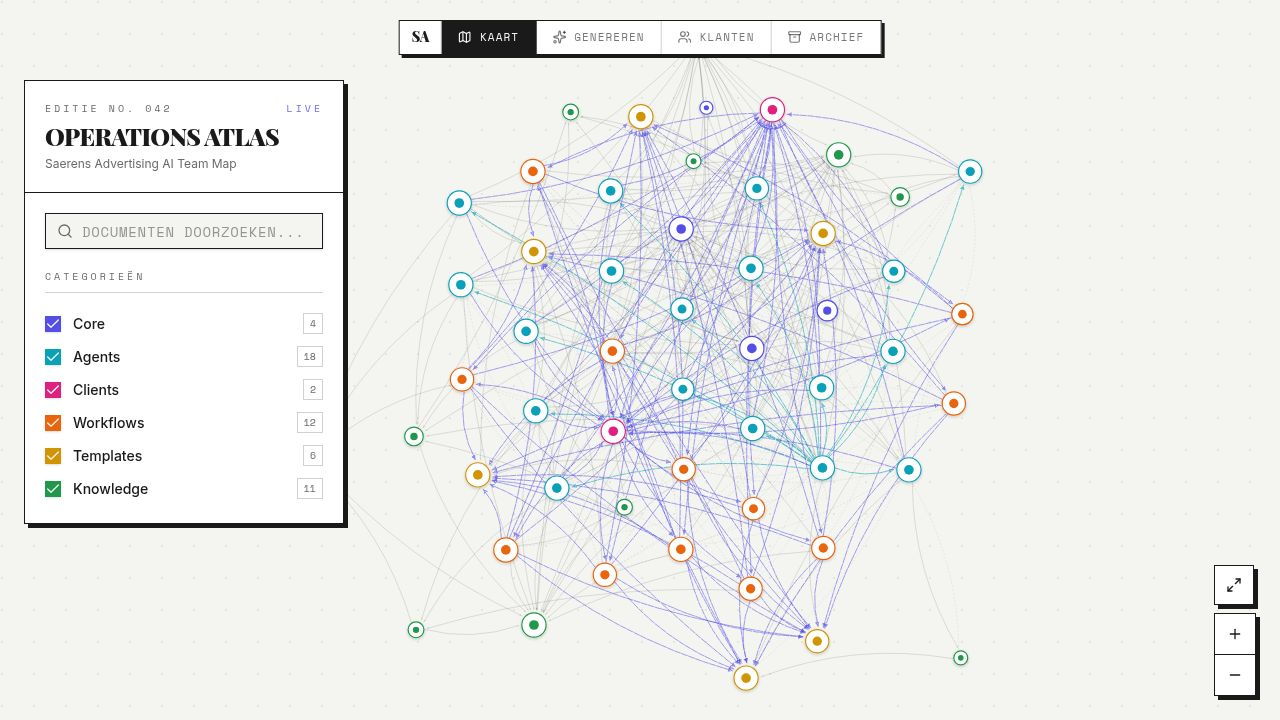
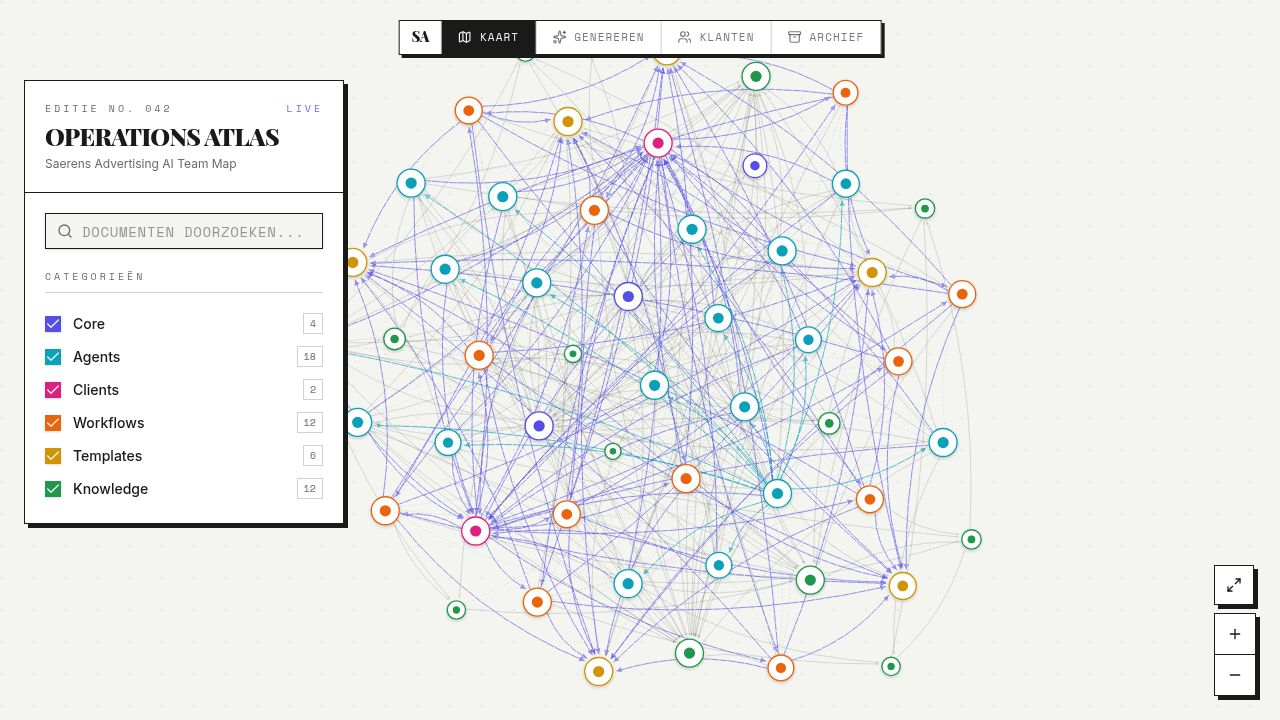
Implement a premium motion layer for the application
Integrates `lenis` for smooth scrolling on editorial pages, framer-motion for route transitions and reveals, and ensures all motion respects the `prefers-reduced-motion` setting.

Replit-Commit-Author: Agent
Replit-Commit-Session-Id: 2fa27040-5862-4278-a227-318cf1cdff0b
Replit-Commit-Checkpoint-Type: full_checkpoint
Replit-Commit-Event-Id: 6742b54f-a1c2-499c-bebe-93934b150d4d
Replit-Commit-Screenshot-Url: https://storage.googleapis.com/screenshot-production-us-central1/e9be4314-e12b-4007-a229-08dc90cf6f89/2fa27040-5862-4278-a227-318cf1cdff0b/9QkM26k
Replit-Helium-Checkpoint-Created: true

diff --git a/artifacts/system-map/src/components/SmoothScroll.tsx b/artifacts/system-map/src/components/SmoothScroll.tsx
@@ -1,0 +1,53 @@
+import { useEffect, useRef } from "react";
+import type { ReactNode } from "react";
+import { useLocation } from "wouter";
+import Lenis from "lenis";
+
+// Premium smooth-scroll layer for the editorial pages. Deliberately NOT active
+// on the Kaart route ("/") — that page is a full-screen, non-scrolling graph
+// with its own wheel-driven interactions, so smooth scroll adds nothing there
+// and could fight the canvas. Fully disabled under reduced-motion.
+export default function SmoothScroll({ children }: { children: ReactNode }) {
+  const lenisRef = useRef<Lenis | null>(null);
+  const [location] = useLocation();
+  const isHome = location === "/";
+
+  useEffect(() => {
+    if (isHome) return;
+
+    const mq = window.matchMedia("(prefers-reduced-motion: reduce)");
+    if (mq.matches) return;
+
+    const lenis = new Lenis({
+      duration: 1.1,
+      easing: (t) => Math.min(1, 1.001 - Math.pow(2, -10 * t)),
+      smoothWheel: true,
+    });
+    lenisRef.current = lenis;
+
+    let raf = 0;
+    const loop = (time: number) => {
+      lenis.raf(time);
+      raf = requestAnimationFrame(loop);
+    };
+    raf = requestAnimationFrame(loop);
+
+    return () => {
+      cancelAnimationFrame(raf);
+      lenis.destroy();
+      lenisRef.current = null;
+    };
+  }, [isHome]);
+
+  // Each route should open at its masthead, not wherever the previous page was
+  // scrolled to. Reset instantly so it never looks like an animated jump.
+  useEffect(() => {
+    if (lenisRef.current) {
+      lenisRef.current.scrollTo(0, { immediate: true });
+    } else {
+      window.scrollTo(0, 0);
+    }
+  }, [location]);
+
+  return <>{children}</>;
+}

diff --git a/artifacts/system-map/src/components/Reveal.tsx b/artifacts/system-map/src/components/Reveal.tsx
@@ -1,0 +1,34 @@
+import { motion, useReducedMotion } from "framer-motion";
+import type { ReactNode } from "react";
+import { revealTransition, revealVariants } from "@/lib/motion";
+
+interface RevealProps {
+  children: ReactNode;
+  className?: string;
+  // Small per-item delay to stagger groups gently.
+  delay?: number;
+}
+
+// A restrained scroll reveal: subtle fade + short rise, triggered once as the
+// element enters the viewport. Under reduced-motion it renders the final state
+// immediately so content is never gated behind motion.
+export default function Reveal({ children, className, delay = 0 }: RevealProps) {
+  const reduce = useReducedMotion();
+
+  if (reduce) {
+    return <div className={className}>{children}</div>;
+  }
+
+  return (
+    <motion.div
+      className={className}
+      variants={revealVariants}
+      initial="hidden"
+      whileInView="visible"
+      viewport={{ once: true, margin: "0px 0px -10% 0px" }}
+      transition={{ ...revealTransition, delay }}
+    >
+      {children}
+    </motion.div>
+  );
+}

diff --git a/artifacts/system-map/src/App.tsx b/artifacts/system-map/src/App.tsx
@@ -1,5 +1,6 @@
-import { Switch, Route, Router as WouterRouter } from "wouter";
+import { Switch, Route, Router as WouterRouter, useLocation } from "wouter";
 import { QueryClient, QueryClientProvider } from "@tanstack/react-query";
+import { AnimatePresence, motion, useReducedMotion } from "framer-motion";
 import { Toaster } from "@/components/ui/toaster";
 import { TooltipProvider } from "@/components/ui/tooltip";
 import NotFound from "@/pages/not-found";
@@ -8,6 +9,8 @@ import Generate from "@/pages/Generate";
 import Clients from "@/pages/Clients";
 import History from "@/pages/History";
 import TabNav from "@/components/TabNav";
+import SmoothScroll from "@/components/SmoothScroll";
+import { pageTransition } from "@/lib/motion";
 
 const queryClient = new QueryClient();
 
@@ -23,13 +26,36 @@ function Router() {
   );
 }
 
+// Quick, opacity-only transition between routes. Keyed on location so each page
+// fades cleanly; reduced-motion users get an instant swap with no animation.
+function AnimatedRoutes() {
+  const [location] = useLocation();
+  const reduce = useReducedMotion();
+
+  return (
+    <AnimatePresence mode="wait" initial={false}>
+      <motion.div
+        key={location}
+        initial={reduce ? false : { opacity: 0 }}
+        animate={{ opacity: 1 }}
+        exit={reduce ? { opacity: 1 } : { opacity: 0 }}
+        transition={pageTransition}
+      >
+        <Router />
+      </motion.div>
+    </AnimatePresence>
+  );
+}
+
 function App() {
   return (
     <QueryClientProvider client={queryClient}>
       <TooltipProvider>
         <WouterRouter base={import.meta.env.BASE_URL.replace(/\/$/, "")}>
-          <TabNav />
-          <Router />
+          <SmoothScroll>
+            <TabNav />
+            <AnimatedRoutes />
+          </SmoothScroll>
         </WouterRouter>
         <Toaster />
       </TooltipProvider>

diff --git a/artifacts/system-map/src/lib/motion.ts b/artifacts/system-map/src/lib/motion.ts
@@ -1,0 +1,23 @@
+import type { Transition, Variants } from "framer-motion";
+
+// Shared editorial easing — a calm, slightly weighted ease-out that matches the
+// newsroom feel. Reused across reveals and route transitions for consistency.
+export const easeEditorial = [0.22, 1, 0.36, 1] as const;
+
+export const revealTransition: Transition = {
+  duration: 0.6,
+  ease: easeEditorial,
+};
+
+// Subtle fade + short rise — content arrives, it does not slide in.
+export const revealVariants: Variants = {
+  hidden: { opacity: 0, y: 16 },
+  visible: { opacity: 1, y: 0 },
+};
+
+// Route transitions stay fast and opacity-only so the content the user came for
+// is never delayed and layout never shifts.
+export const pageTransition: Transition = {
+  duration: 0.28,
+  ease: easeEditorial,
+};

diff --git a/artifacts/system-map/src/components/TabNav.tsx b/artifacts/system-map/src/components/TabNav.tsx
@@ -1,4 +1,5 @@
 import { Link, useLocation } from "wouter";
+import { motion, useReducedMotion } from "framer-motion";
 import { Map, Sparkles, Users, Archive } from "lucide-react";
 
 const tabs = [
@@ -10,6 +11,7 @@ const tabs = [
 
 export default function TabNav() {
   const [location] = useLocation();
+  const reduce = useReducedMotion();
 
   return (
     <div className="fixed top-5 left-1/2 -translate-x-1/2 z-50 pointer-events-auto">
@@ -26,15 +28,27 @@ export default function TabNav() {
             <Link
               key={href}
               href={href}
-              className={`flex items-center gap-2 px-4 py-2 font-['Space_Mono'] text-[11px] uppercase tracking-widest transition-colors border-r border-foreground/20 last:border-r-0 ${
+              className={`relative flex items-center gap-2 px-4 py-2 font-['Space_Mono'] text-[11px] uppercase tracking-widest transition-colors border-r border-foreground/20 last:border-r-0 ${
                 active
-                  ? "bg-foreground text-background"
+                  ? "text-background"
                   : "text-foreground/60 hover:text-foreground hover:bg-foreground/5"
               }`}
               data-testid={`tab-${label.toLowerCase()}`}
             >
-              <Icon className="w-3.5 h-3.5" />
-              {label}
+              {active &&
+                (reduce ? (
+                  <span className="absolute inset-0 bg-foreground" />
+                ) : (
+                  <motion.span
+                    layoutId="tabnav-active"
+                    className="absolute inset-0 bg-foreground"
+                    transition={{ type: "spring", stiffness: 420, damping: 36 }}
+                  />
+                ))}
+              <span className="relative z-10 flex items-center gap-2">
+                <Icon className="w-3.5 h-3.5" />
+                {label}
+              </span>
             </Link>
           );
         })}

diff --git a/artifacts/system-map/src/index.css b/artifacts/system-map/src/index.css
@@ -175,3 +175,19 @@
     animation: none;
   }
 }
+
+/* Lenis smooth scroll — recommended baseline so the rAF-driven scroll position
+   stays authoritative. Lenis is only initialised on the editorial routes. */
+html.lenis,
+html.lenis body {
+  height: auto;
+}
+.lenis.lenis-smooth {
+  scroll-behavior: auto !important;
+}
+.lenis.lenis-smooth [data-lenis-prevent] {
+  overscroll-behavior: contain;
+}
+.lenis.lenis-stopped {
+  overflow: hidden;
+}

diff --git a/artifacts/system-map/src/pages/Clients.tsx b/artifacts/system-map/src/pages/Clients.tsx
@@ -13,6 +13,7 @@ import {
 import { Loader2, Plus, Save, Trash2, X } from "lucide-react";
 import { Input } from "@/components/ui/input";
 import { Textarea } from "@/components/ui/textarea";
+import Reveal from "@/components/Reveal";
 
 type FieldKey = Exclude<keyof ClientInput, "name">;
 
@@ -313,6 +314,7 @@ export default function Clients() {
     <div className="min-h-[100dvh] w-full bg-background text-foreground font-['Inter']">
       <div className="mx-auto max-w-7xl px-6 pt-20 pb-16">
         {/* Masthead */}
+        <Reveal>
         <header className="border-b-2 border-foreground pb-5 mb-10">
           <div className="flex items-end justify-between gap-4">
             <div>
@@ -337,6 +339,7 @@ export default function Clients() {
             generatie en de Kaart.
           </p>
         </header>
+        </Reveal>
 
         <div className="grid grid-cols-1 lg:grid-cols-[24rem_1fr] gap-10">
           {/* Register / index */}

diff --git a/artifacts/system-map/src/pages/History.tsx b/artifacts/system-map/src/pages/History.tsx
@@ -28,6 +28,7 @@ import {
   ThumbsDown,
   Lightbulb,
 } from "lucide-react";
+import Reveal from "@/components/Reveal";
 
 function formatDate(iso: string): string {
   const d = new Date(iso);
@@ -210,6 +211,7 @@ export default function History() {
     <div className="min-h-[100dvh] w-full bg-background text-foreground font-['Inter']">
       <div className="mx-auto max-w-7xl px-6 pt-20 pb-16">
         {/* Masthead */}
+        <Reveal>
         <header className="border-b-2 border-foreground pb-5 mb-10">
           <div className="flex items-end justify-between gap-4">
             <div>
@@ -235,6 +237,7 @@ export default function History() {
             verversing.
           </p>
         </header>
+        </Reveal>
 
         <div className="grid grid-cols-1 lg:grid-cols-[26rem_1fr] gap-10">
           {/* Index */}

diff --git a/knowledge/premium-web-motion.md b/knowledge/premium-web-motion.md
@@ -1,0 +1,49 @@
+# Premium Web Motion & Interaction Standards
+
+Baseline standards for motion and interaction on the sites Saerens builds. The goal is a site that feels considered and premium without ever getting in the way of the message or the conversion. Motion is a finishing layer, not the product. Agents apply these unless a client's brand or context gives a documented reason to deviate.
+
+## Principles
+
+- **Restraint over spectacle.** A premium feel comes from a few precise, consistent movements — not from animating everything. If a motion does not help the visitor understand, focus, or act, remove it.
+- **Motion has a purpose.** Every animation should do a job: guide attention, show a relationship, confirm an action, or smooth a transition. Decoration that distracts from the primary call to action is a defect.
+- **Performance is non-negotiable.** Motion must never make the page feel slow. Conversion and Core Web Vitals come first (coordinate with `knowledge/landing-page-standards.md` and `knowledge/seo-standards.md`).
+- **Accessibility is mandatory.** Respect the visitor. Honour reduced-motion preferences and never rely on motion alone to convey meaning.
+- **Consistency.** Reuse the same durations, easing, and patterns across the whole site so it feels like one designed system.
+
+## Smooth scroll
+
+- Use a smooth-scroll layer (for example, Lenis) only when it adds a calm, premium feel — typically on long editorial or marketing pages. It is optional, not a default for every page.
+- Smooth scroll must never trap or fight native scrolling: nested scroll areas, modals, and embedded content keep their own scrolling. Keyboard, anchor links, and focus navigation must continue to work.
+- Disable smooth scroll entirely when the visitor prefers reduced motion.
+
+## Scroll-triggered reveals
+
+- Reveal content as it enters the viewport with subtle fade and short translate (a few pixels), not large slides or zooms.
+- Trigger once; do not re-animate on every scroll pass. Stagger groups gently rather than animating items individually.
+- Content must be present and readable without JavaScript-driven motion — reveals enhance, they never gate the content. Under reduced motion, show everything immediately.
+
+## Micro-interactions
+
+- Buttons, links, cards, and form fields get small, fast feedback on hover, focus, and press (subtle lift, color, or underline). Keep transitions short (roughly 150-250ms).
+- Focus states must remain clearly visible for keyboard users — never remove focus outlines for the sake of aesthetics.
+- Loading and state changes should feel intentional (skeletons or fades) rather than abrupt jumps.
+
+## Page & section transitions
+
+- Keep route and section transitions quick and simple (short fades or small moves). Avoid long, blocking transitions that delay the content the visitor came for.
+- Never animate layout in a way that causes content to jump (protect Cumulative Layout Shift). Animate transform and opacity, not properties that trigger layout.
+
+## Performance budget
+
+- Animate only `transform` and `opacity` for movement; avoid animating width, height, top, left, or box-shadow in hot paths.
+- Target 60fps; keep concurrent animations few and short. Prefer CSS transitions for simple hover/focus and a motion library for orchestrated sequences.
+- Do not block first paint or interactivity on motion code or heavy animation libraries — keep the critical path lean.
+
+## Reduced motion (required)
+
+- Always honour `prefers-reduced-motion: reduce`. When set: disable smooth scroll, skip reveal animations (show final state immediately), and reduce or remove non-essential micro-interactions.
+- Provide an equivalent, fully usable experience with motion off. Motion is never required to access content or complete a conversion.
+
+## Apply with
+
+Use alongside `knowledge/landing-page-standards.md` (structure and conversion), `knowledge/seo-standards.md` (speed and Core Web Vitals), and any client brand guidelines. When in doubt, choose the calmer option.

diff --git a/.agents/memory/app-motion-layer.md b/.agents/memory/app-motion-layer.md
@@ -1,0 +1,19 @@
+---
+name: System Map app motion layer
+description: Where premium motion lives in the app and the one route that must be excluded from smooth scroll.
+---
+
+# System Map app motion layer
+
+The app has a tasteful "premium" motion layer: Lenis smooth scroll, framer-motion route fade transitions, an animated TabNav active indicator (`layoutId`), and subtle scroll reveals on editorial mastheads. framer-motion is already a dependency; `lenis` was added.
+
+## Smooth scroll must be OFF on the Kaart route ("/")
+**Rule:** Lenis is only initialised on the scrollable editorial routes (Genereren/Klanten/Archief). It must NOT run on the Kaart route ("/").
+**Why:** Kaart is a full-screen `h-[100dvh] overflow-hidden` graph (Operations Atlas) with its own wheel-driven pan/zoom. There is no page scroll there, so Lenis adds nothing and its global wheel handling can fight the canvas interactions.
+**How to apply:** Gate Lenis init on `location !== "/"` (see `SmoothScroll`). If new full-screen/canvas routes are added, exclude them too.
+
+## Reduced motion is mandatory everywhere
+Every motion path honours `prefers-reduced-motion`: Lenis is skipped, route fades become instant, the active-tab pill falls back to a static span, and reveals render final state immediately. Any new motion must add the same guard.
+
+## Dev-only gotcha
+Adding a new motion dependency (or the first import that makes Vite pre-bundle framer-motion) can throw a transient "Invalid hook call / more than one copy of React" during HMR. It clears on a full workflow restart — it is not a real bug.

diff --git a/workflows/web-build.md b/workflows/web-build.md
@@ -18,8 +18,9 @@ After the Landing Page / Web Design Specialist has approved a page spec or struc
 4. Confirm platform / stack constraints and the tracking spec (from the Analytics & Tracking Specialist), if applicable.
 5. Build the page mobile-first: responsive, accessible, and fast.
 6. Implement the on-brand layout faithfully to the spec — no invented scope.
-7. Wire forms and conversion actions to the agreed tracking spec (never invent tracking IDs).
-8. Note technical constraints, dependencies, and missing assets.
+7. Apply a restrained, performant motion layer per `knowledge/premium-web-motion.md` (smooth scroll, scroll reveals, micro-interactions) with mandatory reduced-motion support.
+8. Wire forms and conversion actions to the agreed tracking spec (never invent tracking IDs).
+9. Note technical constraints, dependencies, and missing assets.
 
 ## Agents involved
 

diff --git a/.agents/memory/MEMORY.md b/.agents/memory/MEMORY.md
@@ -6,3 +6,4 @@
 - [Deliverable layer](deliverable-layer.md) — workflows opt into a typed end product via `<!-- deliverable: kind -->`; best-effort after team loop, never loses markdown; strip HTML comments before any ReactMarkdown (no rehype-raw).
 - [Client DB ↔ doc-graph bridge](client-db-doc-bridge.md) — DB clients become synthetic `clients/db/<id>.md` DocFiles; every doc consumer must inject loadClientDocs(); invalidate clients+doc-graph keys after mutations.
 - [Learning loop (review→proposals→apply)](learning-loop.md) — per-change confirmation; non-destructive append; accept/reject must be an atomic compare-and-set (claim WHERE pending) + revert-on-apply-failure.
+- [App motion layer](app-motion-layer.md) — Lenis smooth scroll must be OFF on the full-screen Kaart route ("/"); all motion must honour prefers-reduced-motion.